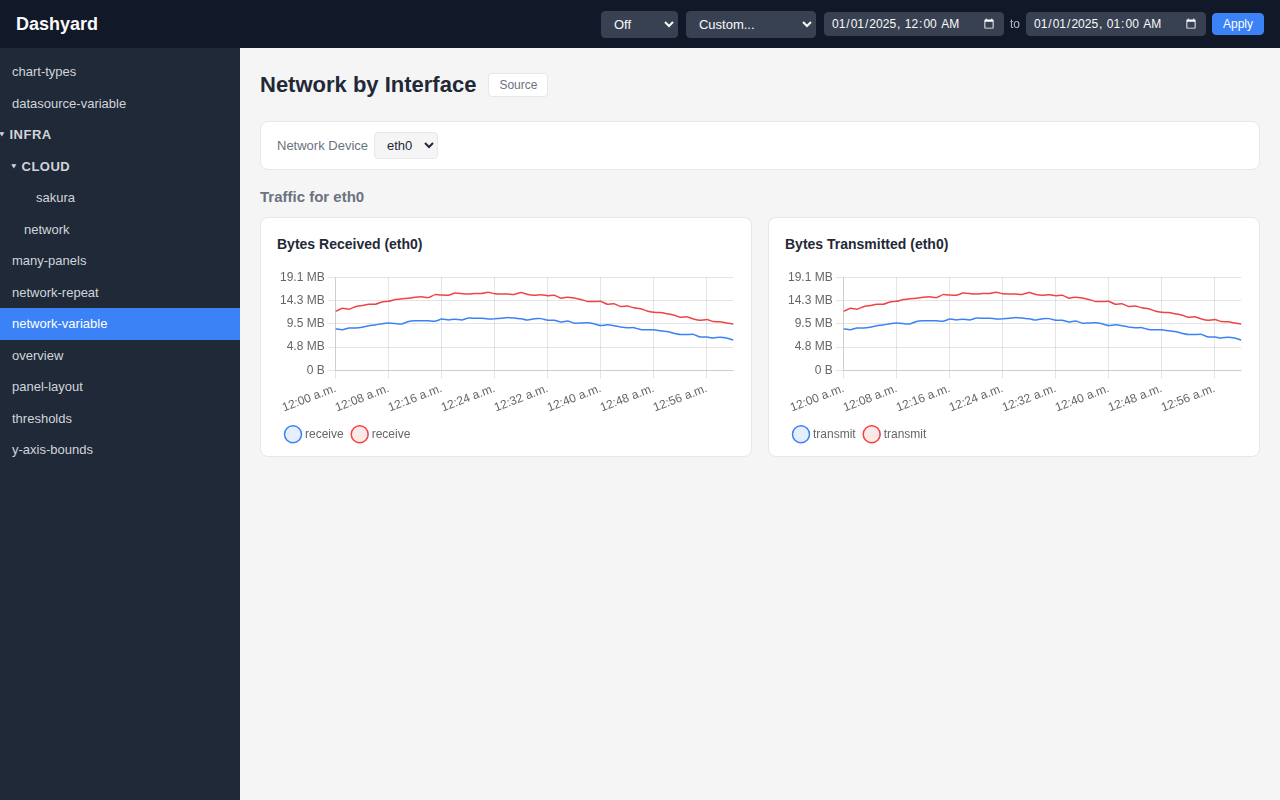
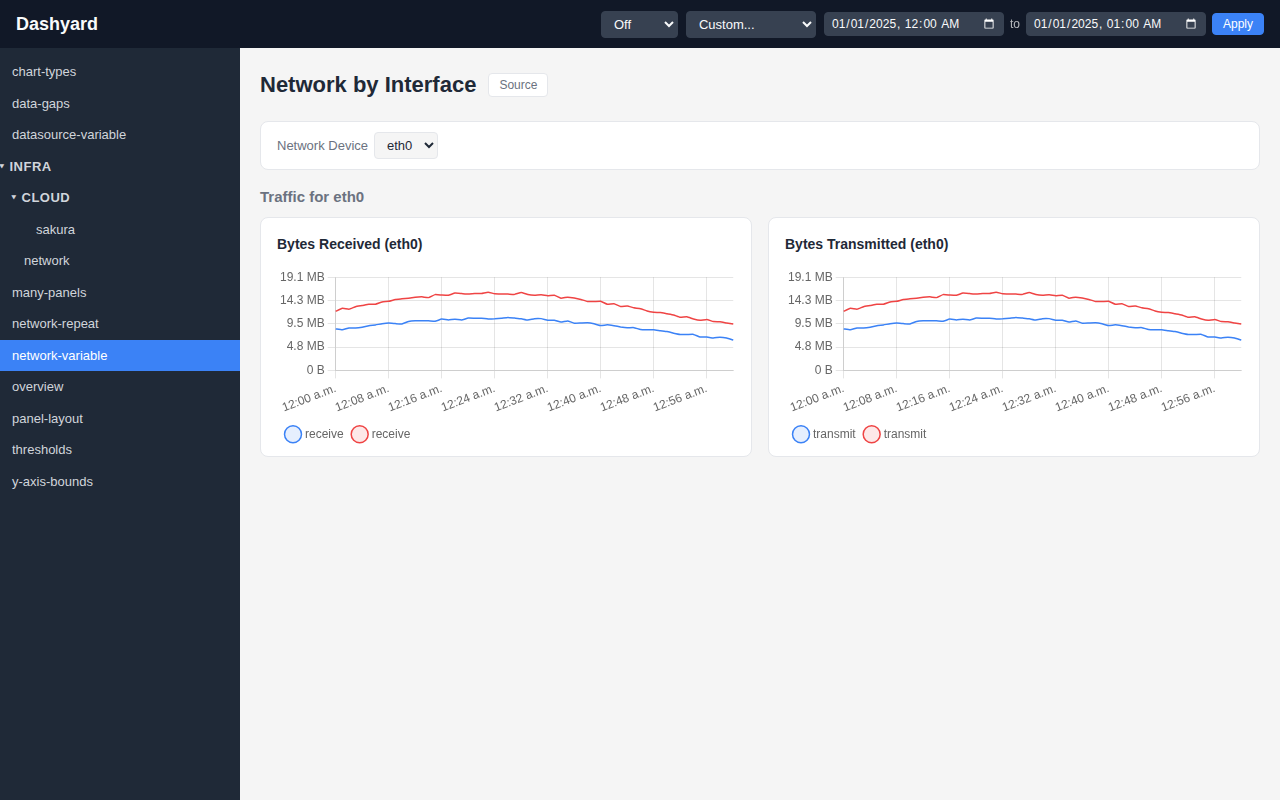
Detect data gaps in Prometheus graphs and break lines instead of interpolating
When Prometheus data has missing intervals (e.g. during container redeployment
where the old version stops sending metrics before the new version starts),
graphs previously drew a misleading straight line across the gap. Now the
frontend detects when consecutive timestamps are more than 1.5x the query step
apart, inserts null data points, and sets spanGaps: false so Chart.js breaks
the line at those gaps.

Also adds a container_requests_total metric to dummyprom that simulates rolling
deployments with version labels, a data-gaps demo dashboard, and updated
screenshots.

Changed region(s): [[0.0, 0.2812, 0.1875, 0.625], [0.0, 0.125, 0.0938, 0.25]]

diff --git a/frontend/src/components/GraphPanel.tsx b/frontend/src/components/GraphPanel.tsx
@@ -52,9 +52,34 @@ interface GraphPanelProps {
   chartType?: 'line' | 'bar' | 'area' | 'scatter';
   stacked?: boolean;
   yScale?: 'linear' | 'log';
+  stepSeconds?: number;
   loading: boolean;
   error: string | null;
   id?: string;
+}
+
+/**
+ * Insert null data points where consecutive timestamps are too far apart,
+ * so Chart.js breaks the line instead of interpolating across data gaps.
+ */
+function insertGapNulls(
+  values: [number, string][],
+  stepSeconds: number,
+): { x: number; y: number | null }[] {
+  const result: { x: number; y: number | null }[] = [];
+  const gapThreshold = stepSeconds * 1.5;
+
+  for (let i = 0; i < values.length; i++) {
+    const [ts, val] = values[i];
+    if (i > 0) {
+      const prevTs = values[i - 1][0];
+      if (ts - prevTs > gapThreshold) {
+        result.push({ x: (prevTs + stepSeconds) * 1000, y: null });
+      }
+    }
+    result.push({ x: ts * 1000, y: parseFloat(val) });
+  }
+  return result;
 }
 
 function buildAnnotations(thresholds?: Threshold[]) {
@@ -93,7 +118,7 @@ const COLORS = [
 ];
 
 
-export function GraphPanel({ title, data, unit, yMin, yMax, legend, legendDisplay, legendPosition, legendAlign, legendMaxHeight, legendMaxWidth, thresholds, chartType, stacked, yScale, loading, error, id }: GraphPanelProps) {
+export function GraphPanel({ title, data, unit, yMin, yMax, legend, legendDisplay, legendPosition, legendAlign, legendMaxHeight, legendMaxWidth, thresholds, chartType, stacked, yScale, stepSeconds, loading, error, id }: GraphPanelProps) {
   const [expanded, setExpanded] = useState(false);
   const [chartHeight, setChartHeight] = useState<number | null>(null);
   const panelChartRef = useRef<HTMLDivElement>(null);
@@ -173,16 +198,19 @@ export function GraphPanel({ title, data, unit, yMin, yMax, legend, legendDispla
 
   const datasets = data.data.result.map((result, idx) => ({
     label: buildLabel(result.metric, legend),
-    data: result.values.map(([ts, val]) => ({
-      x: ts * 1000,
-      y: parseFloat(val),
-    })),
+    data: stepSeconds
+      ? insertGapNulls(result.values, stepSeconds)
+      : result.values.map(([ts, val]) => ({
+          x: ts * 1000,
+          y: parseFloat(val),
+        })),
     borderColor: COLORS[idx % COLORS.length],
     backgroundColor: shouldStack ? COLORS[idx % COLORS.length] + '80' : COLORS[idx % COLORS.length] + '20',
     borderWidth: 1.5,
     pointRadius: effectiveType === 'scatter' ? 3 : 0,
     tension: 0.1,
     fill: effectiveType === 'area' || (shouldStack && effectiveType === 'line') ? 'origin' : false,
+    spanGaps: false,
   }));
 
   const tickCallback = getYAxisTickCallback(unit);

diff --git a/frontend/src/components/RowView.tsx b/frontend/src/components/RowView.tsx
@@ -4,6 +4,7 @@ import { GraphPanel } from './GraphPanel';
 import { MarkdownPanel } from './MarkdownPanel';
 import { useQuery } from '../hooks/useQuery';
 import { substituteVariables } from '../utils/variables';
+import { getTimeRangeParams } from '../utils/time';
 
 interface RowViewProps {
   row: Row;
@@ -70,6 +71,11 @@ function PanelRenderer({ panel, panelId, timeRange, variableValues }: PanelRende
     substitutedDatasource,
   );
 
+  const stepSeconds = useMemo(() => {
+    const { step } = getTimeRangeParams(timeRange);
+    return parseInt(step.replace('s', ''), 10);
+  }, [timeRange]);
+
   if (panel.type === 'markdown') {
     return <MarkdownPanel title={substitutedTitle} content={substitutedContent || ''} id={panelId} />;
   }
@@ -91,6 +97,7 @@ function PanelRenderer({ panel, panelId, timeRange, variableValues }: PanelRende
       chartType={panel.chart_type}
       stacked={panel.stacked}
       yScale={panel.y_scale}
+      stepSeconds={stepSeconds}
       loading={loading}
       error={error}
       id={panelId}

diff --git a/frontend/take-screenshots.ts b/frontend/take-screenshots.ts
@@ -161,6 +161,16 @@ async function main() {
   );
   console.log("Saved: screenshot-y-axis-bounds.png");
 
+  // Navigate to data-gaps dashboard (container deployment with version gaps)
+  await captureDashboard(
+    page,
+    dashboardUrl("data-gaps"),
+    ".graph-panel canvas",
+    path.join(OUTPUT_DIR, "docs", "screenshot-data-gaps.png"),
+    { fullPage: true }
+  );
+  console.log("Saved: screenshot-data-gaps.png");
+
   // Navigate to datasource-variable dashboard
   await captureDashboard(
     page,

diff --git a/cmd/dummyprom/main.go b/cmd/dummyprom/main.go
@@ -168,6 +168,8 @@ func generateData(ctx context.Context, query string, start, end, step float64) [
 		return generateDiskIO(start, end, step, "write")
 	case strings.Contains(query, "demo_requests_per_second"):
 		return generateDemoRequestsPerSecond(start, end, step)
+	case strings.Contains(query, "container_requests_total"):
+		return generateContainerRequests(start, end, step)
 	default:
 		return generateGeneric(query, start, end, step)
 	}
@@ -332,6 +334,41 @@ func generateDemoRequestsPerSecond(start, end, step float64) []promResult {
 	return results
 }
 
+// generateContainerRequests simulates a rolling container deployment where
+// version v1.0.0 stops sending metrics and v1.1.0 starts shortly after,
+// creating a visible data gap between the two versions.
+func generateContainerRequests(start, end, step float64) []promResult {
+	duration := end - start
+	// v1.0.0 runs for the first ~33% of the time range
+	v1End := start + duration*0.33
+	// v1.1.0 starts at ~42%, leaving a ~9% gap (no data from either version)
+	v2Start := start + duration*0.42
+
+	v1Values := generateTimeSeries(start, v1End, step, func(t float64) float64 {
+		return math.Max(0, 100+20*math.Sin(t/300)+noise(t, 700)*10)
+	})
+	v2Values := generateTimeSeries(v2Start, end, step, func(t float64) float64 {
+		return math.Max(0, 120+25*math.Sin(t/300)+noise(t, 701)*10)
+	})
+
+	return []promResult{
+		{
+			Metric: map[string]string{
+				"__name__": "container_requests_total",
+				"version":  "v1.0.0",
+			},
+			Values: v1Values,
+		},
+		{
+			Metric: map[string]string{
+				"__name__": "container_requests_total",
+				"version":  "v1.1.0",
+			},
+			Values: v2Values,
+		},
+	}
+}
+
 func generateGeneric(query string, start, end, step float64) []promResult {
 	values := generateTimeSeries(start, end, step, func(t float64) float64 {
 		return math.Max(0, 50+30*math.Sin(t/600)+noise(t, 500)*10)
@@ -367,6 +404,7 @@ var labelRegistry = map[string]map[string][]string{
 	"system_network_io_bytes_total":     {"device": {"eth0", "eth1"}, "direction": {"receive", "transmit"}},
 	"system_disk_io_bytes_total":        {"device": {"sda"}, "direction": {"read", "write"}},
 	"demo_requests_per_second":          {"endpoint": {"/health", "/api/users", "/api/search", "/api/reports", "/admin"}},
+	"container_requests_total":           {"version": {"v1.0.0", "v1.1.0"}},
 }
 
 type labelValuesResponse struct {
@@ -450,6 +488,7 @@ var metadataRegistry = map[string]struct {
 	"system_network_io_bytes_total":   {"counter", "Total network I/O bytes by device and direction."},
 	"system_disk_io_bytes_total":      {"counter", "Total disk I/O bytes by device and direction."},
 	"demo_requests_per_second":        {"gauge", "Request rate per endpoint (spans multiple orders of magnitude)."},
+	"container_requests_total":        {"counter", "Total container requests by version (simulates rolling deployments with data gaps)."},
 }
 
 func handleMetadata(w http.ResponseWriter, r *http.Request) {

diff --git a/README.md b/README.md
@@ -78,6 +78,12 @@ Draw horizontal reference lines on graph panels to mark warning levels, SLA targ
 
 ![Thresholds](docs/screenshot-thresholds.png)
 
+### Data Gap Detection
+
+When Prometheus data has gaps (e.g. container redeployment where the old version stops sending metrics before the new version starts), Dashyard breaks the graph line instead of interpolating across the missing interval. This matches the behavior of Grafana and other monitoring tools.
+
+![Data Gaps](docs/screenshot-data-gaps.png)
+
 ### Panel Layout with Span
 
 Control panel widths using `span` in a 12-column grid. Use `span: 12` for full-width, `span: 6` for half-width, etc. When `span` is omitted, columns are auto-distributed equally.
